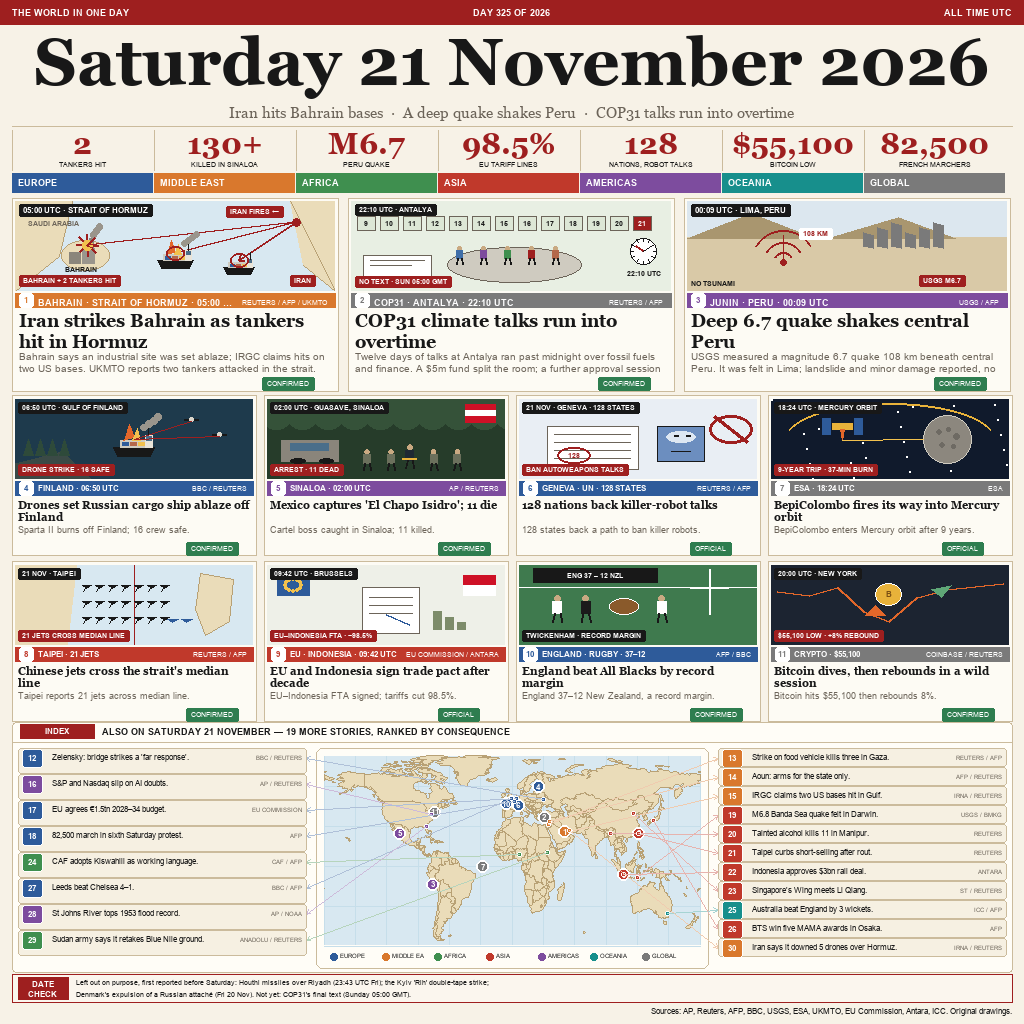
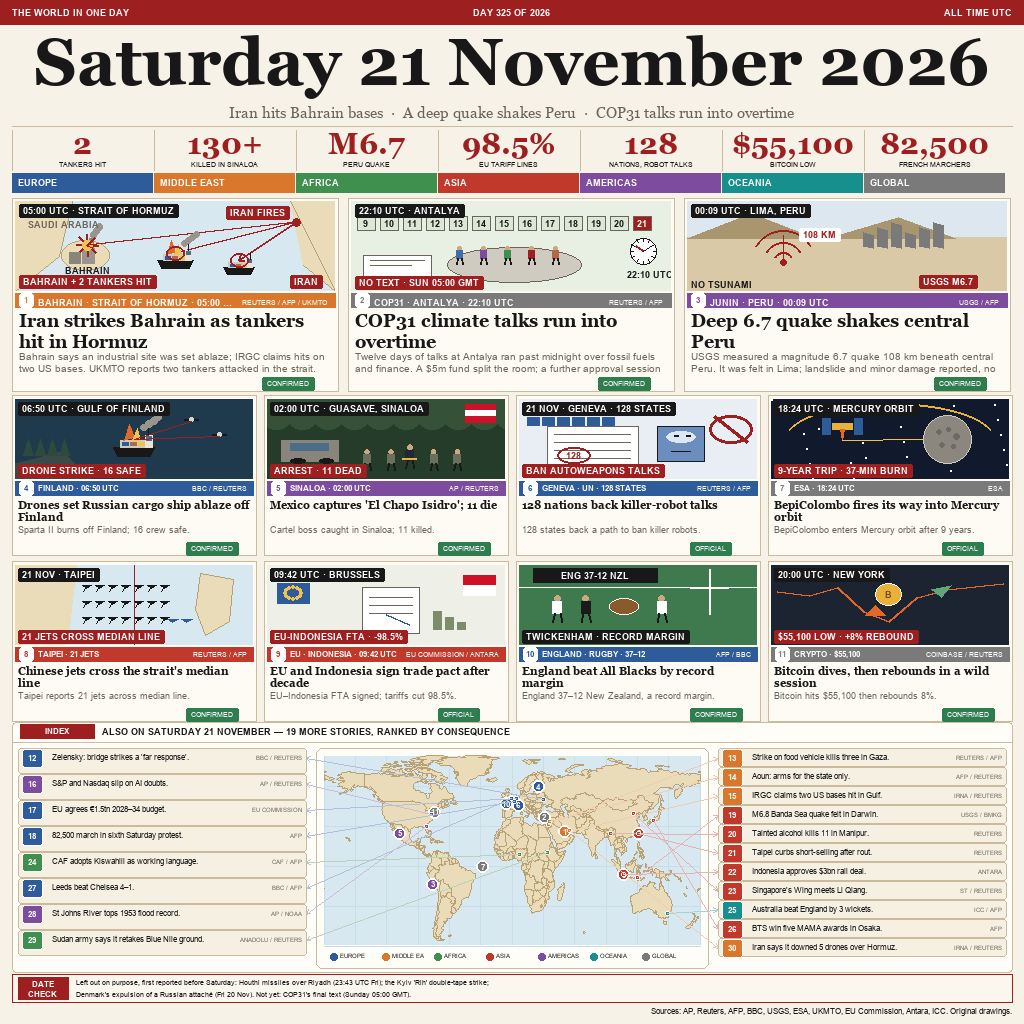
Improve illustration badge legibility: larger bold 9px type and ASCII-safe labels

diff --git a/render.py b/render.py
@@ -71,8 +71,8 @@ F = {
     "lab": face("arialbd.ttf", 9),
     "date": face("arial.ttf", 7),
     "src": face("arial.ttf", 8),
-    "art_l": face("arialbd.ttf", 8),
-    "art_s": face("arialbd.ttf", 7),
+    "art_l": face("arialbd.ttf", 9),
+    "art_s": face("arialbd.ttf", 9),
 }
 
 
@@ -211,7 +211,7 @@ def s_gulf(d, w, h):
         d.ellipse((cx - 9, cy - 7, cx + 9, cy + 7), outline=RED, width=2)
     txt(d, (w * .04, h * .16 + 4), "SAUDI ARABIA", F["art_s"], MUTED)
     pill(d, 4, 3, "05:00 UTC · STRAIT OF HORMUZ", F["art_l"])
-    tag(d, w * .66, 5, "IRAN FIRES ←")
+    tag(d, w * .66, 5, "IRAN FIRES")
     tag(d, 4, h - 16, "BAHRAIN + 2 TANKERS HIT")
     tag(d, w * .86, h - 16, "IRAN")
 
@@ -296,7 +296,7 @@ def s_robot(d, w, h):
     """Geneva, 128 states — treaty text and a robot under a red ban sign."""
     d.rectangle((0, 0, w, h), fill="#E9EEF4")
     for i in range(6):
-        _flag(d, 8 + i * 15, 5, 12, 8, ["#2E5B9A"])
+        _flag(d, 8 + i * 15, 18, 12, 8, ["#2E5B9A"])
     d.rectangle((w * .12, h * .34, w * .50, h * .88), fill="#FFFFFF", outline=MUTED)
     for j in range(4):
         d.line((w * .15, h * .44 + j * 8, w * .47, h * .44 + j * 8), fill=MUTED)
@@ -357,10 +357,10 @@ def s_jets(d, w, h):
 def s_trade(d, w, h):
     """Brussels 09:42 UTC — EU and Indonesia sign; tariffs fall 98.5%."""
     d.rectangle((0, 0, w, h), fill="#EEF0E8")
-    d.rectangle((10, 10, 42, 30), fill="#2E5B9A")
+    d.rectangle((10, 18, 42, 38), fill="#2E5B9A")
     for i in range(12):
         a = 2 * math.pi * i / 12
-        sx, sy = 26 + 8 * math.cos(a), 20 + 6 * math.sin(a)
+        sx, sy = 26 + 8 * math.cos(a), 28 + 6 * math.sin(a)
         d.ellipse((sx - 1.5, sy - 1.5, sx + 1.5, sy + 1.5), fill="#F2C14E")
     _flag(d, w - 42, 10, 32, 20, ["#CE1126", "#FFFFFF"])
     d.rectangle((w * .40, h * .28, w * .64, h * .86), fill="#FFFFFF", outline=MUTED)
@@ -370,7 +370,7 @@ def s_trade(d, w, h):
     for i, hg in enumerate((18, 12, 7)):
         d.rectangle((w * .70 + i * 12, h * .80 - hg, w * .70 + i * 12 + 8, h * .80), fill="#7D8C6A")
     pill(d, 3, 3, "09:42 UTC · BRUSSELS", F["art_s"])
-    tag(d, 3, h - 15, "EU–INDONESIA FTA · −98.5%")
+    tag(d, 3, h - 15, "EU-INDONESIA FTA · -98.5%")
 
 
 def s_rugby(d, w, h):
@@ -383,7 +383,7 @@ def s_rugby(d, w, h):
     for x, c in ((w * .16, "#FFFFFF"), (w * .28, "#1B1B1B"), (w * .60, "#FFFFFF")):
         _person(d, x, h * .55, 1.5, c)
     d.rectangle((w * .06, h * .04, w * .58, h * .22), fill=INK)
-    txt(d, (w * .32, h * .13), "ENG 37 – 12 NZL", F["art_s"], "#FFFFFF", "mm")
+    txt(d, (w * .32, h * .13), "ENG 37-12 NZL", F["art_s"], "#FFFFFF", "mm")
     pill(d, 3, h - 15, "TWICKENHAM · RECORD MARGIN", F["art_s"])
 
 

diff --git a/audit.py b/audit.py
@@ -68,7 +68,8 @@ def pass_300px():
         "masthead": 66, "masthead label": 9, "deck": 15,
         "stat number": 30, "region label": 9,
         "main headline": 18, "main body": 10, "small headline": 11,
-        "small body": 9, "list headline": 8, "list source": 6,
+        "small body": 9, "illustration badge": 9,
+        "list headline": 8, "list source": 6,
         "date check": 7, "source line": 8,
     }
     return [(k, f"{v} px", f"{v * SCALE:.2f} px @300") for k, v in fonts.items()]
